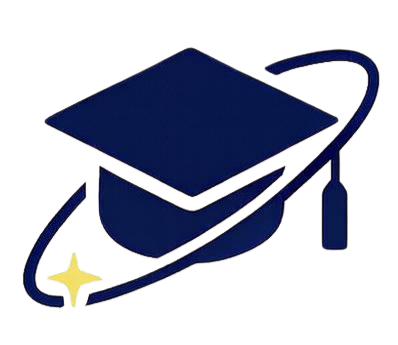
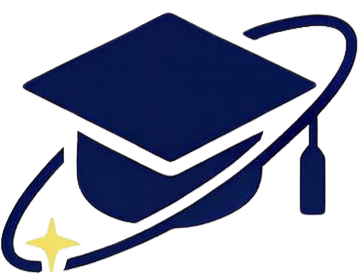
sistemato footer top spaziatura

Changed region(s): [[0.0, 0.0288, 1.0, 1.0], [0.1515, 0.3741, 0.2424, 0.4317]]

diff --git a/esplora.html b/esplora.html
@@ -77,7 +77,7 @@
                         <fieldset>
                             <div>
                                 <label for="cerca">Cerca</label>
-                                <input id="cerca" type="text" name="cerca" maxlength=20 placeholder="Cerca...">
+                                <input id="cerca" type="text" name="cerca" maxlength="20" placeholder="Cerca...">
                             </div>
                         </fieldset>
                     </form>
@@ -88,7 +88,7 @@
             <aside id="filtri">
                 <div class="filtri-header">
                     <h2>Filtri</h2>
-                    <button id="chiudiFiltri" aria-label="Chiudi filtri">&#9932</button>
+                    <button id="chiudiFiltri" type="button" aria-label="Chiudi filtri">&#9932;</button>
                 </div>    
                 <form class="form-data" action="esplora.html" method="get">
                     <fieldset class="fieldset-filtri">
@@ -108,71 +108,68 @@
                             <label for="citta">Città (sede universitaria)</label>
                             <input list="listaCitta" name="citta" id="citta" placeholder="Scrivi e seleziona">
                             <datalist id="listaCitta">
-                                <option value="Ancona">
-                                <option value="Aosta">
-                                <option value="Bari">
-                                <option value="Benevento">
-                                <option value="Bergamo">
-                                <option value="Bologna">
-                                <option value="Bolzano">
-                                <option value="Brescia">
-                                <option value="Cagliari">
-                                <option value="Caserta">
-                                <option value="Catania">
-                                <option value="Catanzaro">
-                                <option value="Chieti">
-                                <option value="Cosenza">
-                                <option value="Ferrara">
-                                <option value="Firenze">
-                                <option value="Foggia">
-                                <option value="Frosinone">
-                                <option value="Genova">
-                                <option value="L'Aquila">
-                                <option value="Lecce">
-                                <option value="Lucca">
-                                <option value="Milano">
-                                <option value="Modena">
-                                <option value="Messina">
-                                <option value="Napoli">
-                                <option value="Padova">
-                                <option value="Palermo">
-                                <option value="Parma">
-                                <option value="Pavia">
-                                <option value="Perugia">
-                                <option value="Pisa">
-                                <option value="Potenza">
-                                <option value="Reggio Calabria">
-                                <option value="Roma">
-                                <option value="Sassari">
-                                <option value="Siena">
-                                <option value="Teramo">
-                                <option value="Torino">
-                                <option value="Trento">
-                                <option value="Trieste">
-                                <option value="Udine">
-                                <option value="Urbino">
-                                <option value="Varese">
-                                <option value="Vercelli">
-                                <option value="Venezia">
-                                <option value="Verona">
-                                <option value="Viterbo">
+                                <option value="Ancona"></option>
+                                <option value="Aosta"></option>
+                                <option value="Bari"></option>
+                                <option value="Benevento"></option>
+                                <option value="Bergamo"></option>
+                                <option value="Bologna"></option>
+                                <option value="Bolzano"></option>
+                                <option value="Brescia"></option>
+                                <option value="Cagliari"></option>
+                                <option value="Caserta"></option>
+                                <option value="Catania"></option>
+                                <option value="Catanzaro"></option>
+                                <option value="Chieti"></option>
+                                <option value="Cosenza"></option>
+                                <option value="Ferrara"></option>
+                                <option value="Firenze"></option>
+                                <option value="Foggia"></option>
+                                <option value="Frosinone"></option>
+                                <option value="Genova"></option>
+                                <option value="L'Aquila"></option>
+                                <option value="Lecce"></option>
+                                <option value="Lucca"></option>
+                                <option value="Milano"></option>
+                                <option value="Modena"></option>
+                                <option value="Messina"></option>
+                                <option value="Napoli"></option>
+                                <option value="Padova"></option>
+                                <option value="Palermo"></option>
+                                <option value="Parma"></option>
+                                <option value="Pavia"></option>
+                                <option value="Perugia"></option>
+                                <option value="Pisa"></option>
+                                <option value="Potenza"></option>
+                                <option value="Reggio Calabria"></option>
+                                <option value="Roma"></option>
+                                <option value="Sassari"></option>
+                                <option value="Siena"></option>
+                                <option value="Teramo"></option>
+                                <option value="Torino"></option>
+                                <option value="Trento"></option>
+                                <option value="Trieste"></option>
+                                <option value="Udine"></option>
+                                <option value="Urbino"></option>
+                                <option value="Varese"></option>
+                                <option value="Vercelli"></option>
+                                <option value="Venezia"></option>
+                                <option value="Verona"></option>
+                                <option value="Viterbo"></option>
                             </datalist>
                         </div>
                         <!--<div>
                             <label for="data-pubblicazione">Data pubblicazione</label>
                             <input id="data-pubblicazione" type="date" name="data-pubblicazione">
                         </div>-->
-                        <fieldset class="fieldset-filtri">
-                                <legend>Periodo pubblicazione</legend>
-                                <div>
-                                    <label for="pubblicazione-inizio">Data inizio</label>
-                                    <input id="pubblicazione-inizio" type="date" name="pubblicazione-inizio">
-                                </div>
-                                <div>
-                                    <label for="pubblicazione-fine">Data fine</label>
-                                    <input id="pubblicazione-fine" type="date" name="pubblicazione-fine">
-                                </div>
-                        </fieldset>
+                        <div>
+                            <label for="pubblicazione-inizio">Inizio periodo pubblicazione</label>
+                            <input id="pubblicazione-inizio" type="date" name="pubblicazione-inizio">
+                        </div>
+                        <div>
+                            <label for="pubblicazione-fine">Fine periodo pubblicazione</label>
+                            <input id="pubblicazione-fine" type="date" name="pubblicazione-fine">
+                        </div>
                     </fieldset>
 
                     <div id="filtri-affitti" class="nascondi-filtri">
@@ -183,32 +180,18 @@
                                 <label for="num-coinquilini"><abbr title="Numero">N°</abbr> coinquilini</label>
                                 <input id="num-coinquilini" type="number" min="0" name="num-coinquilini">
                             </div>-->
-                            <fieldset class="fieldset-filtri">
-                                <legend>Numero coinquilini</legend>
-                                <div>
-                                    <label for="coinquilini-min">Minimo</label>
-                                    <input type="number" id="coinquilini-min" name="coinquilini-min" min="0" step="1" placeholder="Es. 1">
-                                </div>
-                                <div>
-                                    <label for="coinquilini-max">Massimo</label>
-                                    <input type="number" id="coinquilini-max" name="coinquilini-max" min="0" step="1" placeholder="Es. 4">
-                                </div>
-                            </fieldset>
+                            <div>
+                                <label for="coinquilini-max">Numero massimo coinquilini</label> <!--min da 0-->
+                                <input type="number" id="coinquilini-max" name="coinquilini-max" min="0" step="1" placeholder="Es. 4">
+                            </div>
                             <!--<div>
                                 <label for="costo-mese-affitto">Costo mensile</label>
                                 <input id="costo-mese-affitto" placeholder="Es. 400 €/mese" type="number" min="0" name="costo-mese-affitto">
                             </div>-->
-                            <fieldset class="fieldset-filtri">
-                                <legend>Costo mensile</legend>
-                                <div>
-                                    <label for="costo-mese-affitto-min">Compenso minimo (€/mese)</label>
-                                    <input id="costo-mese-affitto-min" type="number" name="costo-mese-affitto-min" min="0" step="1" placeholder="Es. 5">
-                                </div>
-                                <div>
-                                    <label for="costo-mese-affitto-max">Compenso massimo (€/mese)</label>
-                                    <input id="costo-mese-affitto-max" type="number" name="costo-mese-affitto-max" min="0" step="1" placeholder="Es. 50">
-                                </div>
-                            </fieldset>
+                            <div>
+                                <label for="costo-mese-affitto-max">Costo mensile massimo (€/mese)</label> <!--min da 0-->
+                                <input id="costo-mese-affitto-max" type="number" name="costo-mese-affitto-max" min="0" step="1" placeholder="Es. 50">
+                            </div>
                             <div>
                                 <label for="indirizzo-affitto">Indirizzo</label>
                                 <input id="indirizzo-affitto" placeholder="Es. Via Luzzati" name="indirizzo-affitto">
@@ -228,32 +211,26 @@
                                 <label for="durata-esperimento">Durata esperimento</label>
                                 <input id="durata-esperimento" placeholder="Es. 40 min" type="number" min="0" name="durata-esperimento"> 
                             </div>-->
-                            <fieldset class="fieldset-filtri">
-                                <legend>Durata esperimento (minuti)</legend>
-                                <div>
-                                    <label for="esperimento-durata-min">Minimo</label>
-                                    <input type="number" id="esperimento-durata-min" name="esperimento-durata-min" min="0" step="5" placeholder="Es. 30">
-                                </div>
-                                <div>
-                                    <label for="esperimento-durata-max">Massimo</label>
-                                    <input type="number" id="esperimento-durata-max" name="esperimento-durata-max" min="0" step="5" placeholder="Es. 120">
-                                </div>
-                            </fieldset>
+                            <div>
+                                <label for="esperimento-durata-min">Duarata minima esperimento (minuti)</label>
+                                <input type="number" id="esperimento-durata-min" name="esperimento-durata-min" min="0" step="5" placeholder="Es. 30">
+                            </div>
+                            <div>
+                                <label for="esperimento-durata-max">Durata massima esperimento (minuti)</label>
+                                <input type="number" id="esperimento-durata-max" name="esperimento-durata-max" min="0" step="5" placeholder="Es. 120">
+                            </div>
                             <!--<div>
                                 <label for="compenso">Compenso</label>
                                 <input id="compenso" placeholder="Es 15€" type="number" min="0" name="compenso">
                             </div>-->
-                            <fieldset class="fieldset-filtri">
-                                <legend>Compenso</legend>
-                                <div>
-                                    <label for="esperimento-compenso-min">Compenso minimo (€)</label>
-                                    <input id="esperimento-compenso-min" type="number" name="esperimento-compenso-min" min="0" step="1" placeholder="Es. 5">
-                                </div>
-                                <div>
-                                    <label for="esperimento-compenso-max">Compenso massimo (€)</label>
-                                    <input id="esperimento-compenso-max" type="number" name="esperimento-compenso-max" min="0" step="1" placeholder="Es. 50">
-                                </div>
-                            </fieldset>
+                            <div>
+                                <label for="esperimento-compenso-min">Compenso minimo esperimento (€)</label>
+                                <input id="esperimento-compenso-min" type="number" name="esperimento-compenso-min" min="0" step="1" placeholder="Es. 5">
+                            </div>
+                            <div>
+                                <label for="esperimento-compenso-max">Compenso massimo esperimento (€)</label>
+                                <input id="esperimento-compenso-max" type="number" name="esperimento-compenso-max" min="0" step="1" placeholder="Es. 50">
+                            </div>
                         </fieldset>
                     </div>
 
@@ -265,32 +242,22 @@
                                 <label for="data-evento">Data evento</label>
                                 <input id="data-evento" type="date" name="data-evento">
                             </div>-->
-                            <fieldset class="fieldset-filtri">
-                                <legend>Periodo evento</legend>
-                                <div>
-                                    <label for="evento-inizio">Data inizio</label>
-                                    <input id="evento-inizio" type="date" name="evento-inizio">
-                                </div>
-                                <div>
-                                    <label for="evento-fine">Data fine</label>
-                                    <input id="evento-fine" type="date" name="evento-fine">
-                                </div>
-                            </fieldset>
+                            <div>
+                                <label for="evento-inizio">Data inizio evento</label>
+                                <input id="evento-inizio" type="date" name="evento-inizio">
+                            </div>
+                            <div>
+                                <label for="evento-fine">Data fine evento</label>
+                                <input id="evento-fine" type="date" name="evento-fine">
+                            </div>
                             <!--<div>
                                 <label for="costo-evento">Costo entrata</label>
                                 <input id="costo-evento" placeholder="Es. 10€" type="number" min="0" name="costo-evento">
                             </div>-->
-                            <fieldset class="fieldset-filtri">
-                                <legend>Costo entrata</legend>
-                                <div>
-                                    <label for="evento-costo-min">Costo minimo (€)</label>
-                                    <input id="evento-costo-min" type="number" name="evento-costo-min" min="0" step="1" placeholder="Es. 5">
-                                </div>
-                                <div>
-                                    <label for="evento-costo-max">Costo massimo (€)</label>
-                                    <input id="evento-costo-max" type="number" name="evento-costo-max" min="0" step="1" placeholder="Es. 50">
-                                </div>
-                            </fieldset>
+                            <div>
+                                <label for="evento-costo-max">Costo massimo entrata (€)</label>  <!--min da 0-->
+                                <input id="evento-costo-max" type="number" name="evento-costo-max" min="0" step="1" placeholder="Es. 50">
+                            </div>
                             <div>
                                 <label for="luogo-evento">Luogo</label>
                                 <input id="luogo-evento" placeholder="Es. Via Luzzati" name="luogo-evento">
@@ -319,17 +286,10 @@
                                 <label for="prezzo-ripetizioni">Prezzo orario</label>
                                 <input id="prezzo-ripetizioni" placeholder="Es. 10 €/ora" type="number" min="0" name="prezzo-ripetizioni">
                             </div>-->
-                            <fieldset class="fieldset-filtri">
-                                <legend>Prezzo orario (€/ora)</legend>
-                                <div>
-                                    <label for="prezzo-ripetizioni-min">Compenso minimo (€/ora)</label>
-                                    <input id="prezzo-ripetizioni-min" type="number" name="prezzo-ripetizioni-min" min="0" step="1" placeholder="Es. 5">
-                                </div>
-                                <div>
-                                    <label for="prezzo-ripetizioni-max">Compenso massimo (€/ora)</label>
-                                    <input id="prezzo-ripetizioni-max" type="number" name="prezzo-ripetizioni-max" min="0" step="1" placeholder="Es. 50">
-                                </div>
-                            </fieldset>
+                            <div>
+                                <label for="prezzo-ripetizioni-max">Prezzo orario massimo (€/ora)</label> <!--min da 0-->
+                                <input id="prezzo-ripetizioni-max" type="number" name="prezzo-ripetizioni-max" min="0" step="1" placeholder="Es. 50">
+                            </div>
                         </fieldset>
                     </div>
                 <div class="filtri-footer">

diff --git a/css/style.css b/css/style.css
@@ -292,14 +292,14 @@ footer {
     display: flex;
     flex-direction: column;
     align-items: center;
-    gap: 1em;
+    gap: 0;
 }
 
 #footer-top {
     display: flex;
     flex-direction: column;
     align-items: center;
-    gap: 2.5em;
+    gap: 0.5em;
 }
 
 /*#footer-top > img {
@@ -327,7 +327,7 @@ footer {
     list-style: none;
     display: flex;
     gap: 2em;
-    margin-bottom: 1em;
+    margin-bottom: 0.5em;
     padding: 0.5em 1em;
     /*border: 2px solid var(--call-to-actionColor);
     border-radius: 1em;
@@ -362,10 +362,7 @@ footer {
 }
 
 .logo-footer {
-    height: 100px;
-    margin-top: -1em;
-    margin-bottom: 0.5em;
-    pointer-events: none;
+    height: 6em;
 }
 
 #footer-bottom {
@@ -964,7 +961,7 @@ label {
     border-radius: 1em;
     color: var(--clearTxtColor);
     text-align: center;
-    background-color: var(--card); 
+    background-color: var(--required); 
     margin: 0.5em 0 1em;
 } 
 
@@ -1198,5 +1195,14 @@ form > p, form > p{
     color: var(--required)
 }
 
-
+/* .required {
+    display: inline-block;
+    padding: 0.4em 0.8em;
+    border-radius: 1.5em;
+    color: var(--clearTxtColor);
+    text-align: center;
+    background-color: var(--affittiColor); 
+    margin-left: 0.5em;
+    font-size: small;
+} */
 

diff --git a/css/mini.css b/css/mini.css
@@ -148,6 +148,10 @@ header {
     text-align: center;
 }
 
+#site-map {
+    gap: 0.8em;
+}
+
 #footer-bottom {
     flex-direction: column;
     align-items: center;
